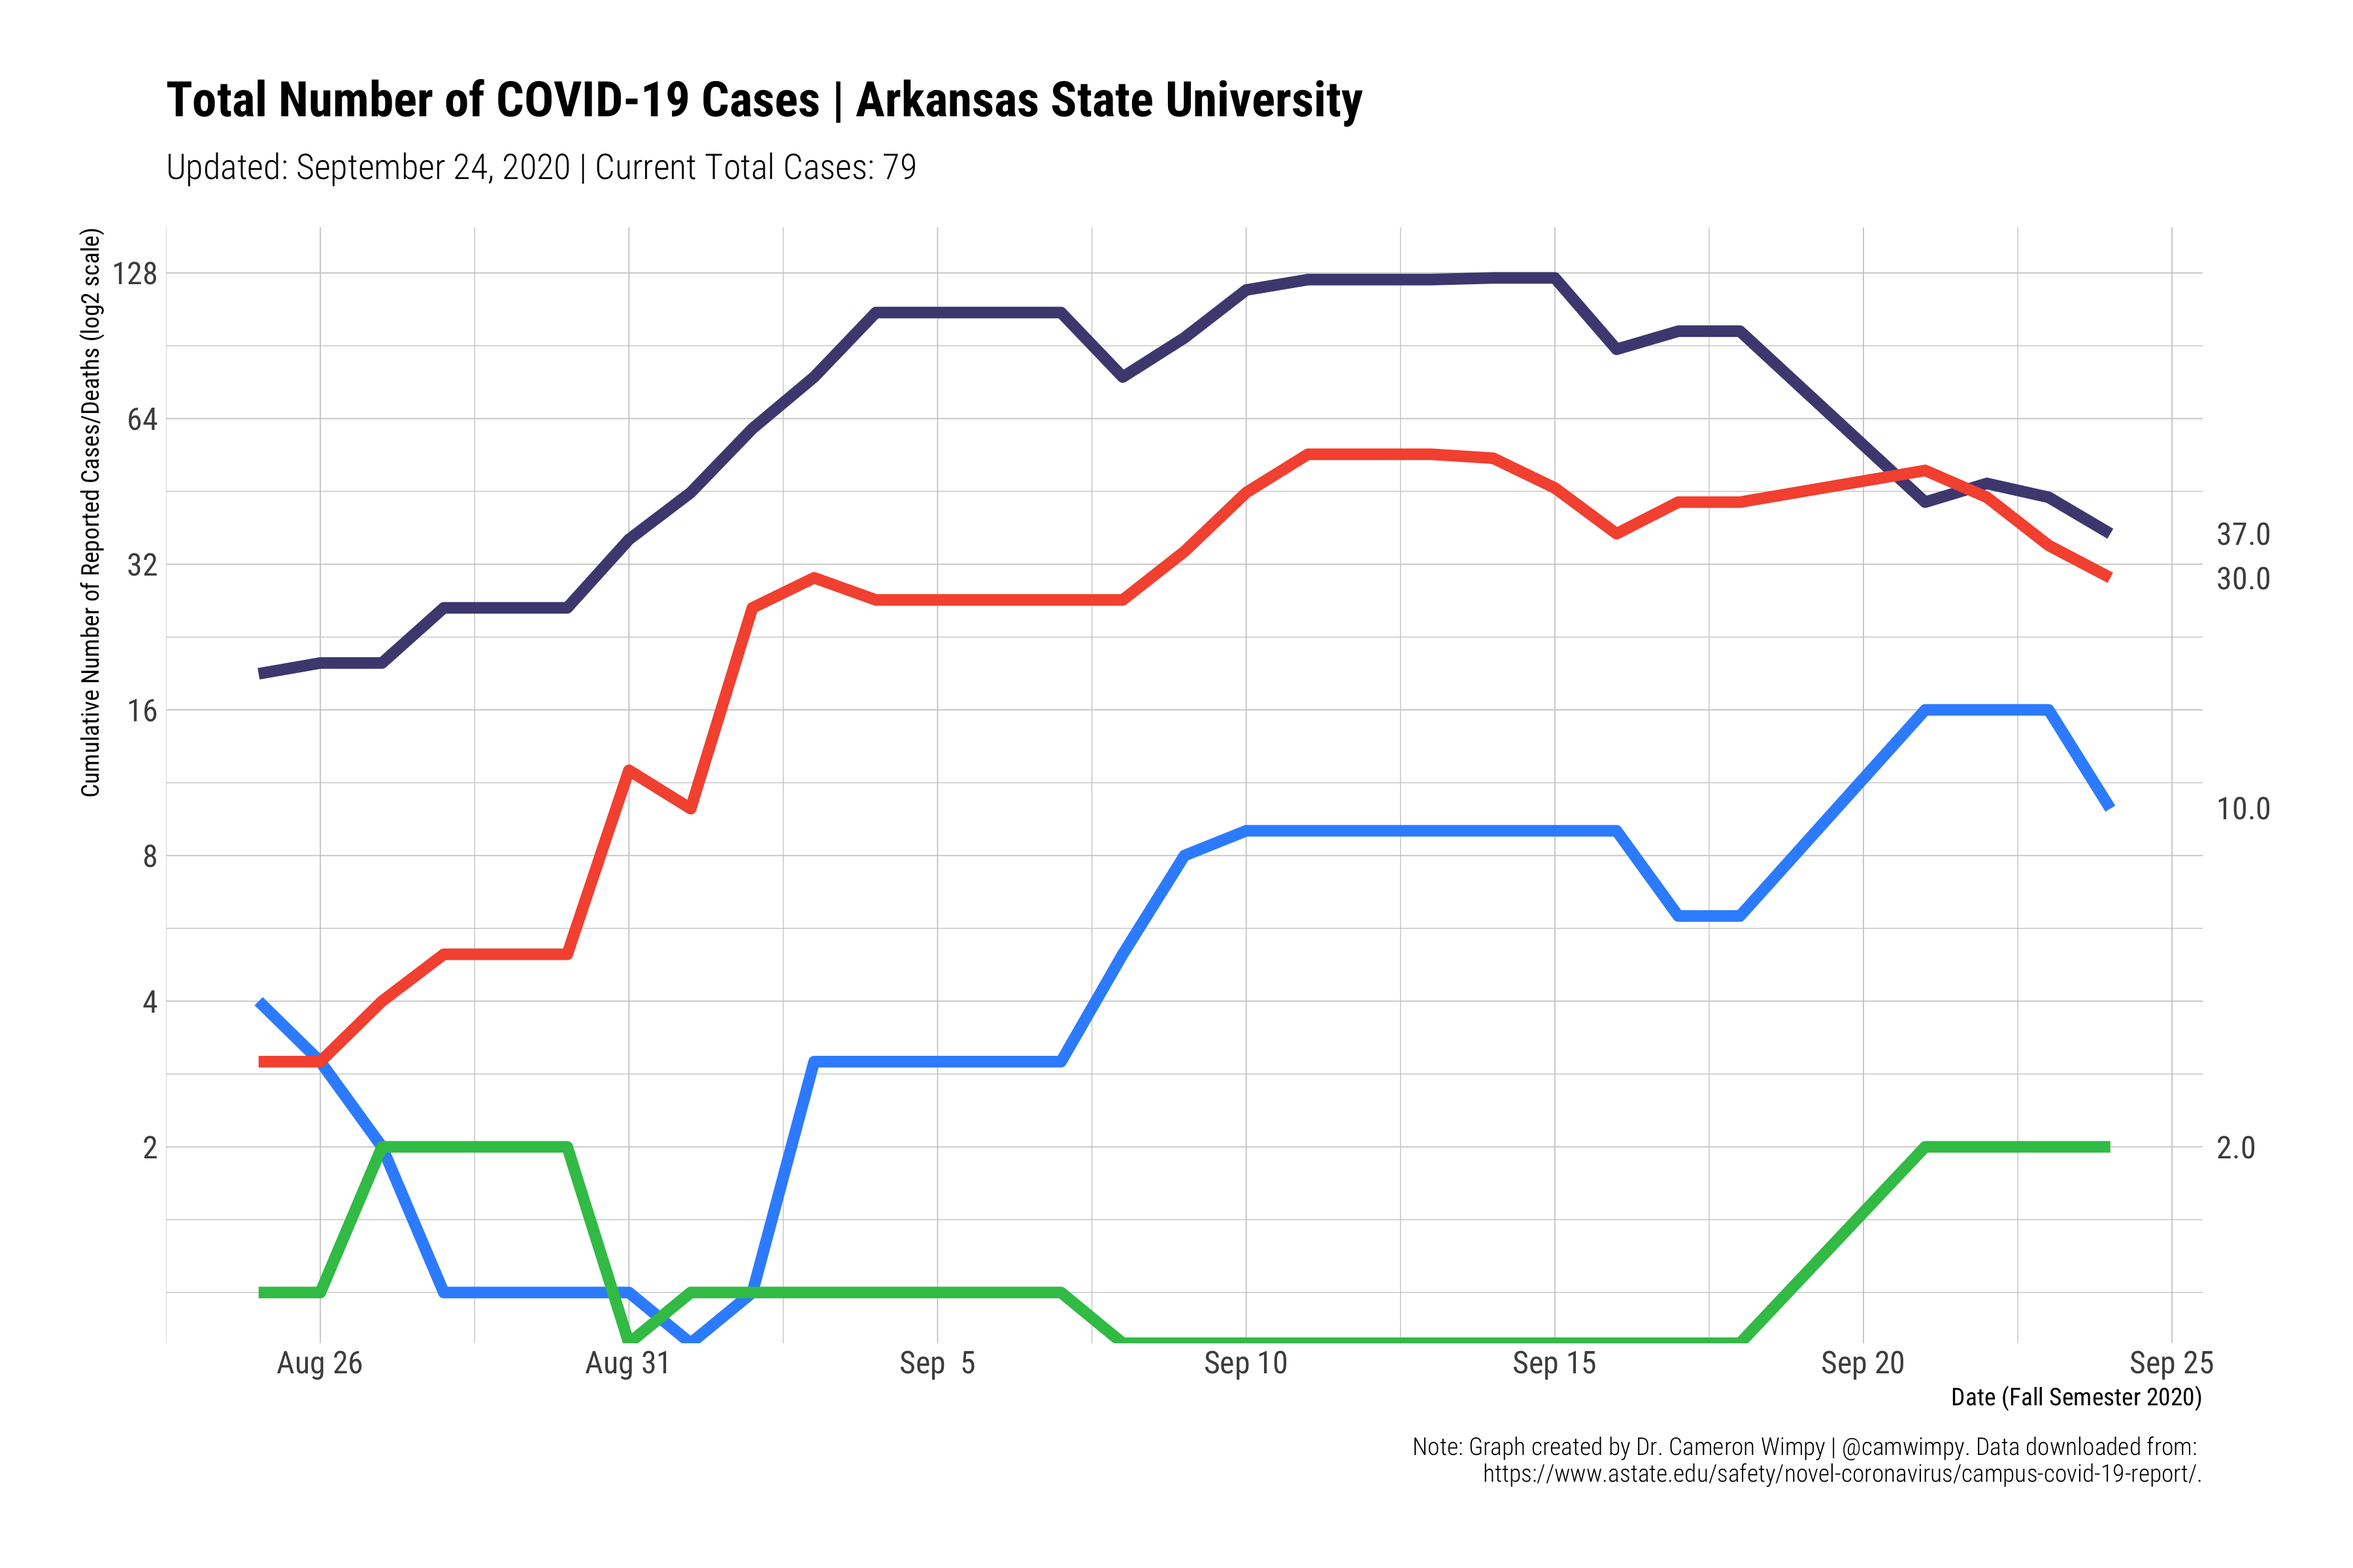
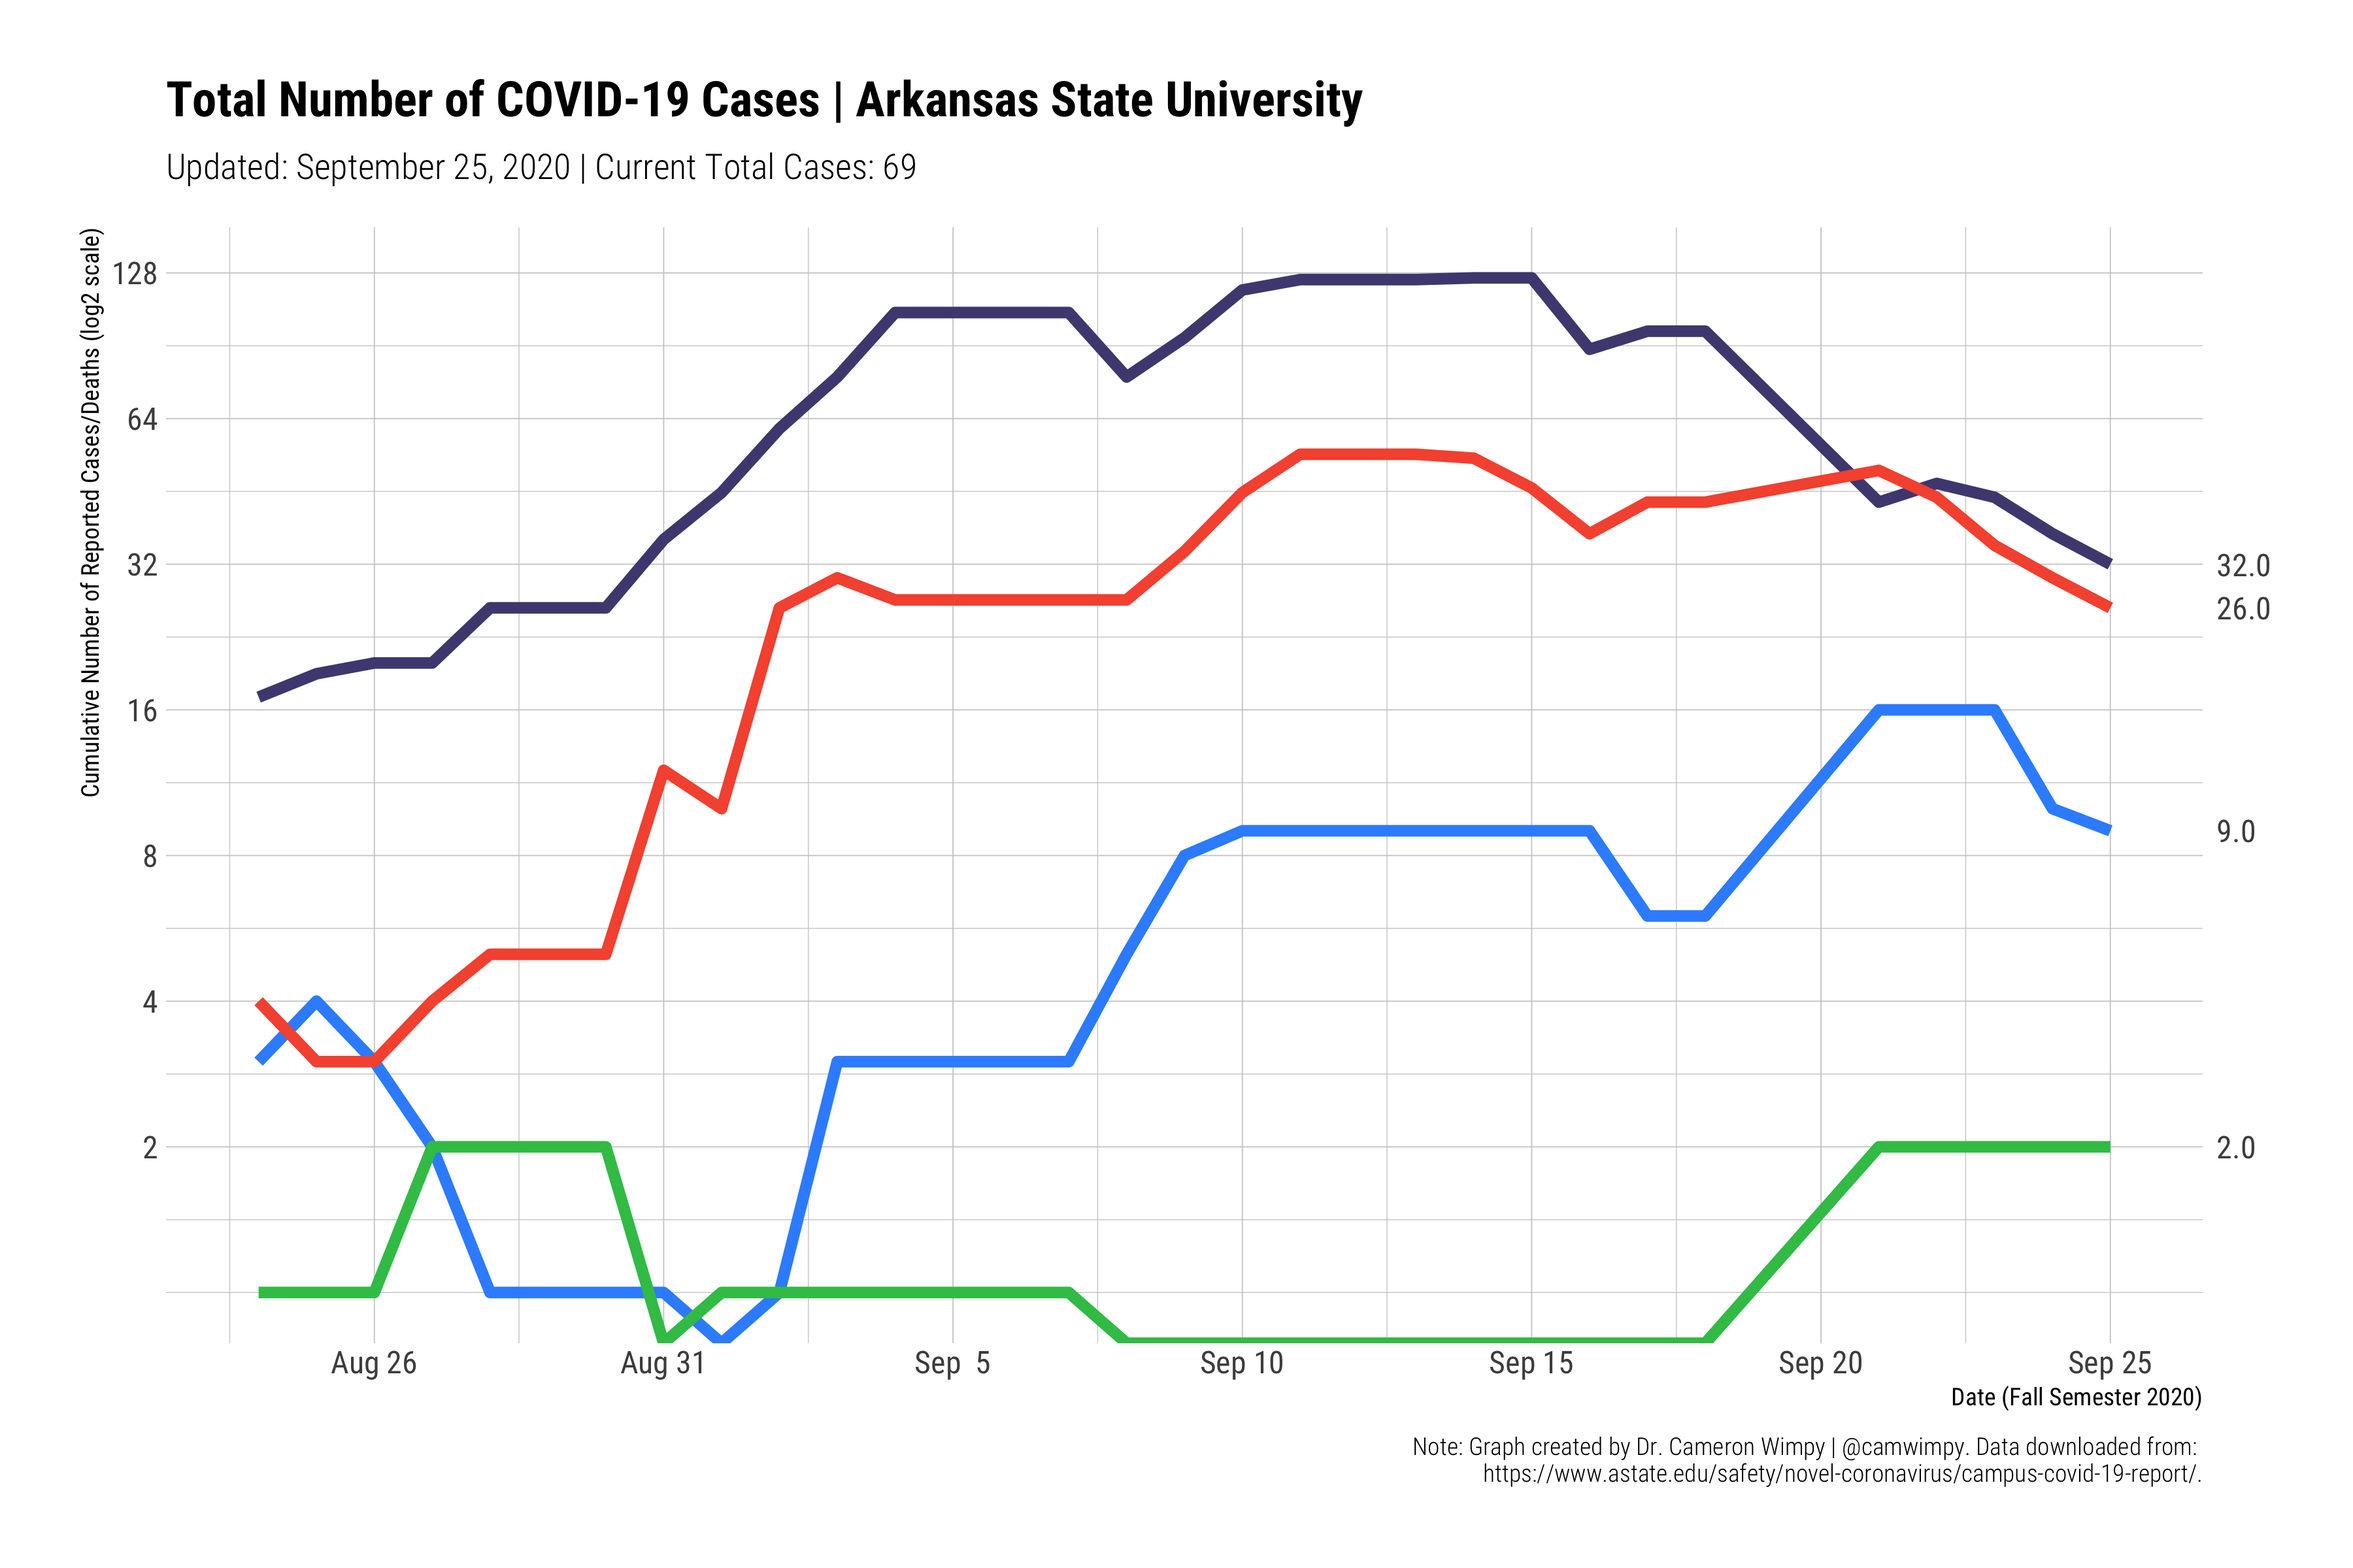
update

diff --git a/README.md b/README.md
@@ -10,4 +10,4 @@ This repo is dedicated to making graphs to track the Covid-19 outbreak at Arkans
 
 ![](images/bar.png)
 
-### Updated: September 24, 2020
+### Updated: September 25, 2020
